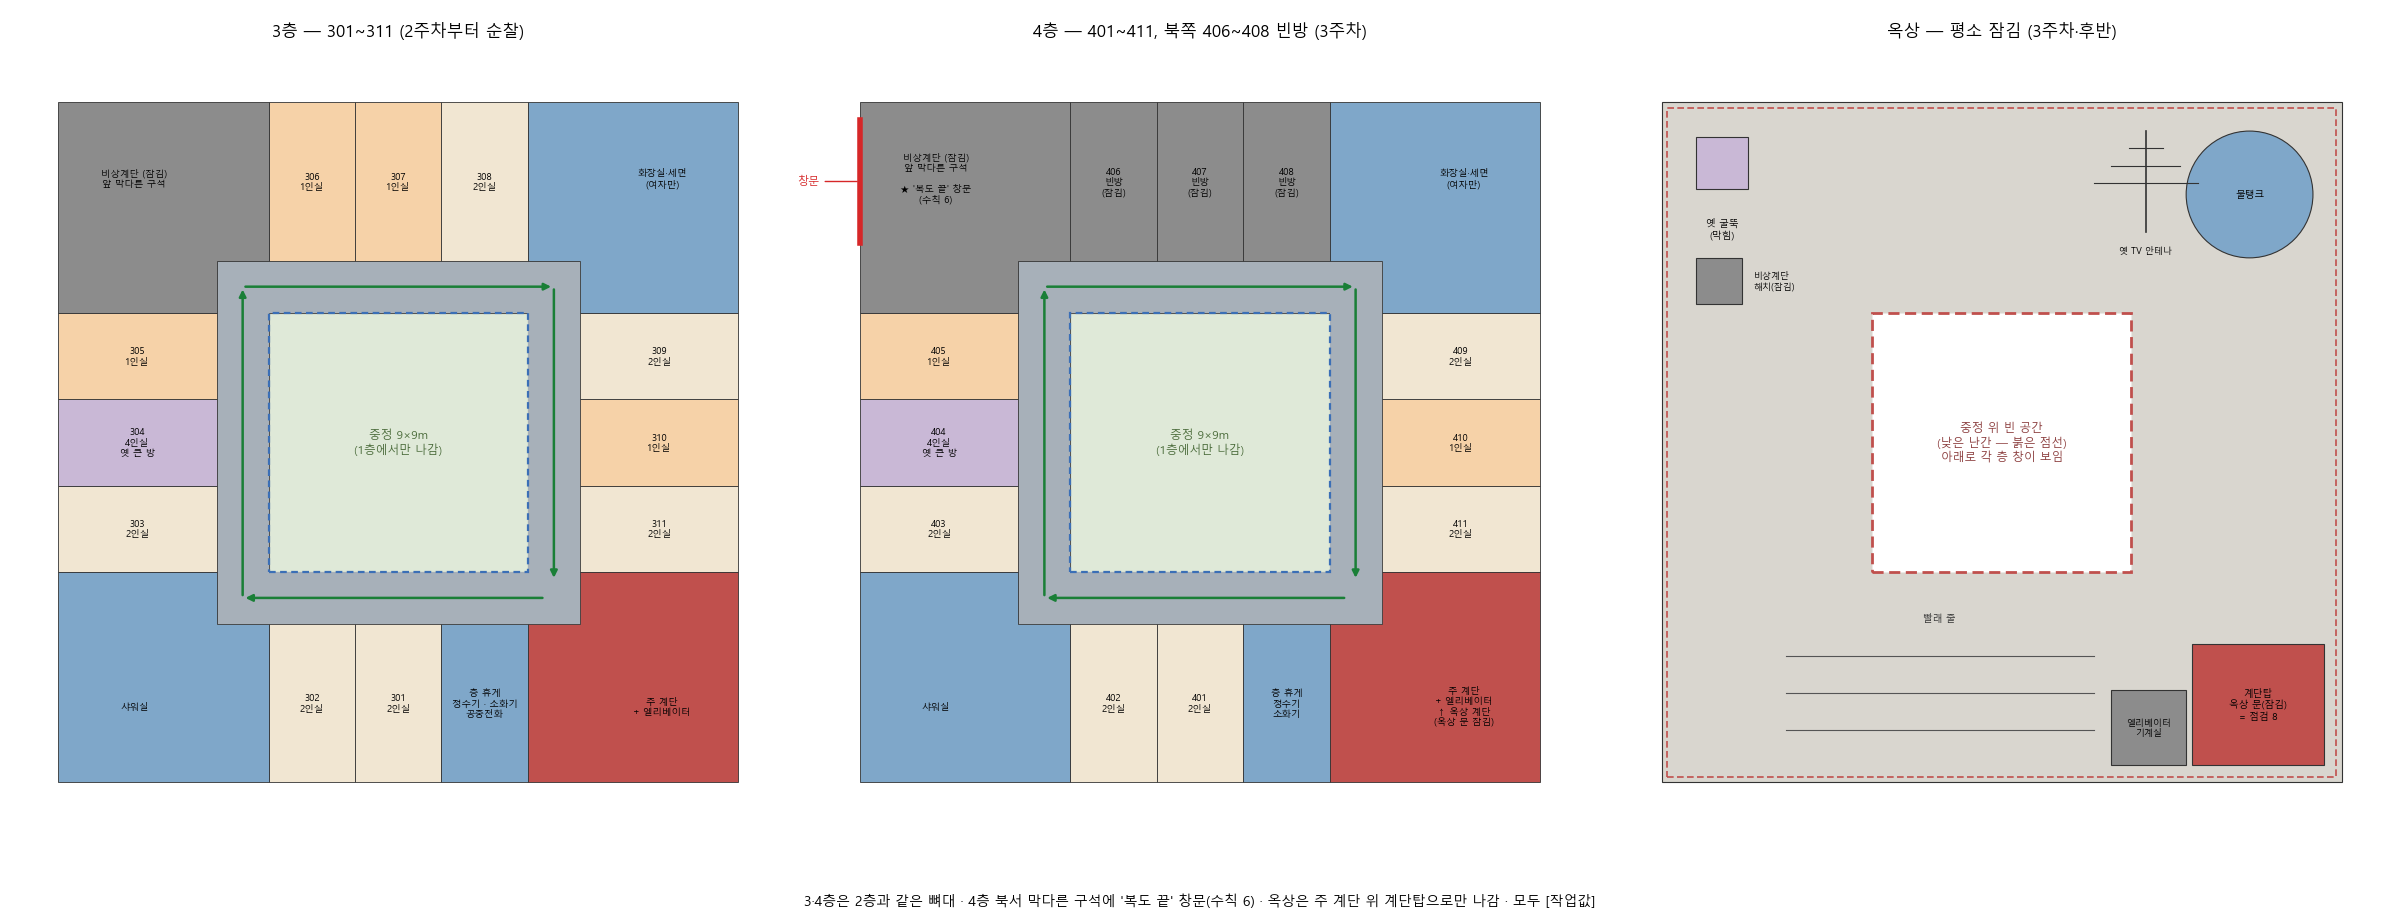
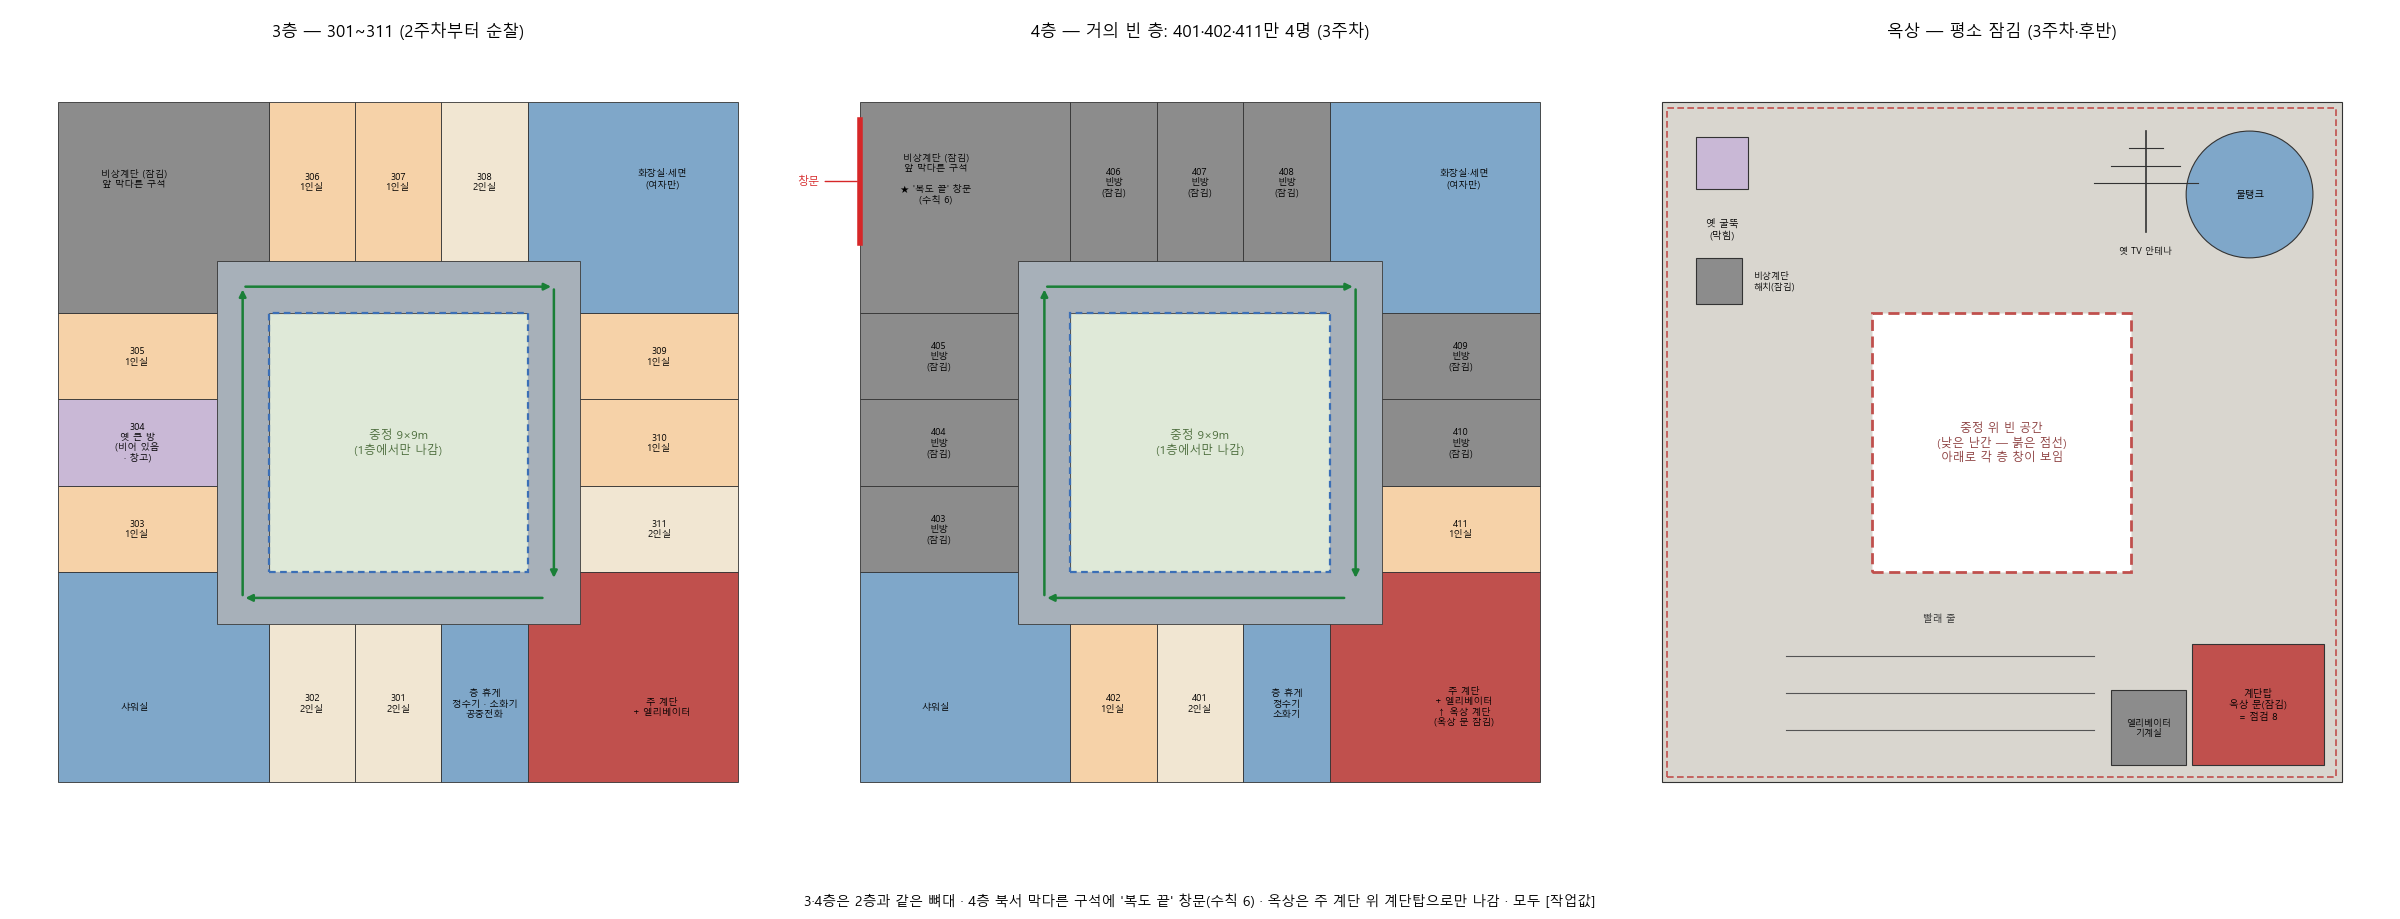
기획: 인원 32명(2·3층 1인실 6·2인실 4, 4층 거의 빈 층), 평면 다시 그림

diff --git a/docs/STATUS.md b/docs/STATUS.md
@@ -22,7 +22,7 @@ _마지막 갱신: 2026-11-28 · **새 채팅은 PC Claude Code에서 시작 —
 7. 사용자 결정 대기: 건물 이름 · 메인 기숙생 고르기 · 게임 길이 · 가제 · 밤 방식(어두운 빛 / 거친 저해상도) · 정확한 등신(작업값 5.5)
 
 ## 최근 완료
-- 2026-11-28: **1인실·2인실 섞기** [확정] — 층마다 2인실 6 · 1인실 4 · 옛 4인실 1 = 20명, 전체 56명 자리(4층 북쪽 빈방) · 평면 두 장 다시 그림 (building-layout §17)
+- 2026-11-28: **1인실·2인실 섞기 · 32명** [확정 방향] — 2·3층 1인실 6 · 2인실 4(14명씩) · 4층 거의 빈 층(4명) · 옛 4인실은 층마다 빈 창고 · 추천 인원 33명과 맞춤 · 평면 다시 그림 (building-layout §17·§18)
 - 2026-11-28: **3·4층·옥상 평면** — 3층 = 2층 뼈대 + 공중전화 · 4층 북쪽 406~408 빈방(잠김), 북서 막다른 구석 '복도 끝' 창문(수칙 6), 주 계단 위 계단탑·옥상 문 · 옥상 = 낮은 난간(바깥·중정)·물탱크·빨래 줄·옛 굴뚝(막힘)·비상계단 해치·옛 안테나 · 엘리베이터 '5층 버튼' 후보 (building-layout §16)
 - 2026-11-28: **1층 3차 · 습성 시설 빼기** — 종족 습성 배려 시설 빼기 [확정] · 1층: 식당 없음, 매점 3칸(15평, 옛 배식구 남음) · 세탁실 2칸(10평) · 휴게실+취사실 합침(20평) · 독서실+창고 → 창고 (building-layout §13·§14) · 사감실 2칸(10평, 택배 선반·숙직 침대 포함, 현관은 서쪽 칸으로) [확정]
 - 2026-11-28: **건물 결정 2차** — 매점 알바생 1명·물건 구매 [확정] · 엘리베이터(주 계단 옆, B 버튼 열쇠로 막힘) [확정] · 지하 = 잠긴 의문의 공간 [확정 방향] · 시대감 80~90년대 [작업값] · 크기 추천안 방 3×5.5m·복도 1.8m → 바깥 23.6m·중정 9m·한 바퀴 43m · 평면 다시 그림 (building-layout §11)
